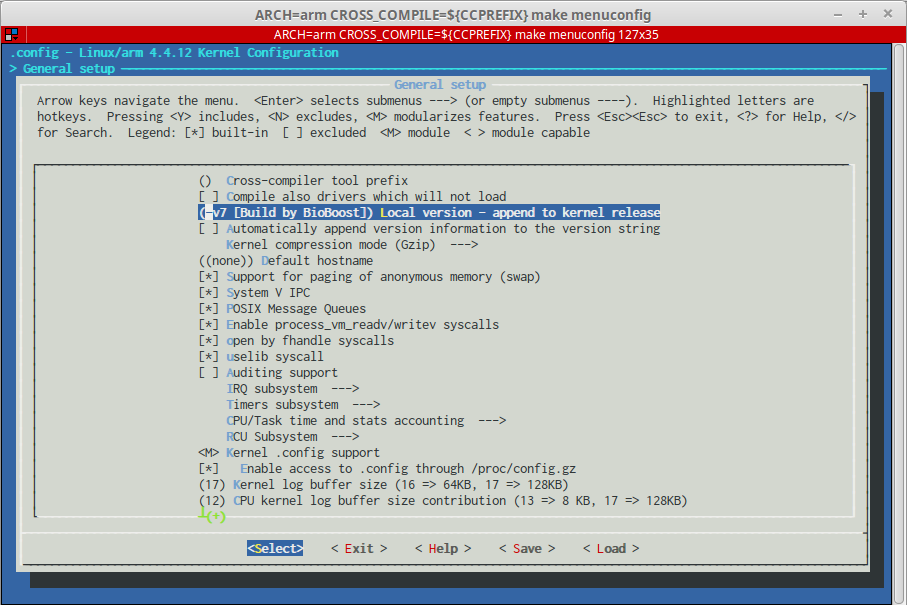
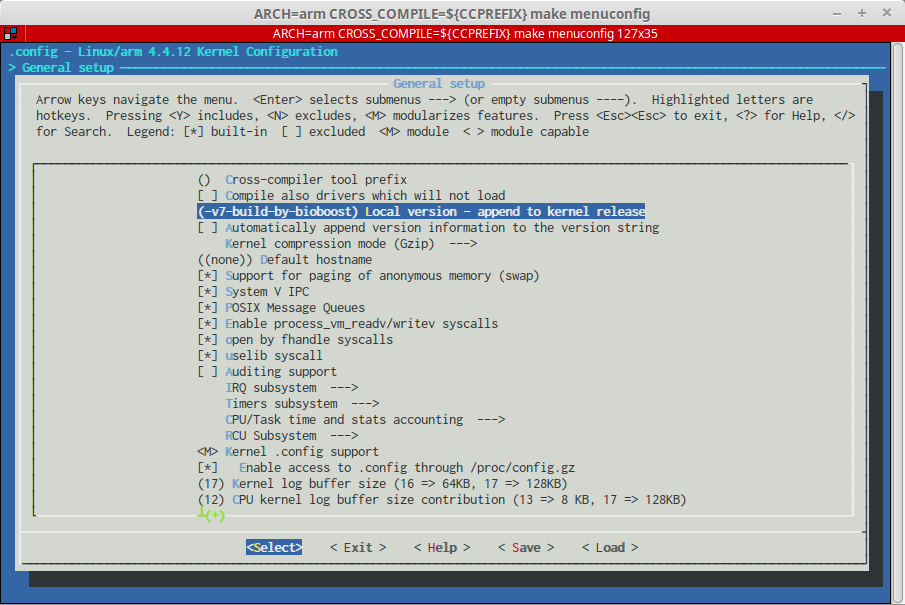
Deploy new kernel

Changed region(s): [[0.0, 0.0, 1.0, 1.0]]

diff --git a/docs/compile_rpi_kernel.md b/docs/compile_rpi_kernel.md
@@ -177,36 +177,62 @@ ARCH=arm CROSS_COMPILE=${CCPREFIX} make menuconfig
 
 Let's try to change something arbitrary like the 'local version string' which shows when using the `uname` command. Traverse to `General setup => Local version - append to kernel release` and change it to a custom string. An example is shown in the figure below. Make sure to save and exit before proceeding.
 
+!!! warning "Local Version String"
+	Do not use special characters or spaces for the local version string of the linux kernel as it will be integrated in the modules path build later in this course. A good example is 'v7-build-by-mark'; a bad one is 'v7 [build by m@rk]'
+
 ![Changing the Local Version of the Kernel](img/kernel_config_localversion.png)
 :   Changing the Local Version of the Kernel
 
 ### Building the kernel and modules
 
-To build the kernel, the modules and device trees (more on this later) the following make command can be used:
+To build the kernel, the modules and device trees (more on this later) the following commands can be used:
 
 ```shell
 ARCH=arm CROSS_COMPILE=${CCPREFIX} make zImage modules dtbs
+ARCH=arm CROSS_COMPILE=${CCPREFIX} make INSTALL_MOD_PATH=/tmp/modules modules_install
+scripts/mkknlimg arch/arm/boot/zImage /tmp/kernel7.img
 ```
 
 !!! note "Threads"
 	`-j#` sets the number of threads that should be used to build the kernel. It should be set to 1.5* the number of cores in your CPU. So if you have 4 cores, you should set it to 6. On a VM you can omit the argument unless you used more than 1 core.
 
+Next we need to make a package containing all the build modules. If a dedicated machine were to be used this step would be simpler as we could deploy the modules directly to the SD card. However with Virtual Box it is not possible to directly access an SD card.
 
+```shell
+cd /tmp/modules
+tar czf modules.tgz *
+scp /tmp/modules/modules.tgz pi@<ip-address>:/tmp
+```
 
+Next we need the kernel image and the device tree blobs to be copied to the Raspberry Pi:
 
+```shell
+mkdir -p /tmp/boot/overlays
 
+mv /tmp/kernel7.img /tmp/boot/kernel7.img
 
+cp /home/$(whoami)/rpi-linux/arch/arm/boot/dts/*.dtb /tmp/boot/
+cp /home/$(whoami)/rpi-linux/arch/arm/boot/dts/overlays/*.dtb* /tmp/boot/overlays
+cp /home/$(whoami)/rpi-linux/arch/arm/boot/dts/overlays/README /tmp/boot/overlays
 
-TODO:
-Next, install the modules:
+scp -r /tmp/boot pi@<ip-address>:/tmp
+```
 
-sudo make ARCH=arm CROSS_COMPILE=arm-linux-gnueabihf- INSTALL_MOD_PATH=mnt/ext4 modules_install
+Now login to the Pi do deploy the new kernel:
 
-Finally, copy the kernel and Device Tree blobs onto the SD card, making sure to back up your old kernel:
-sudo cp mnt/fat32/$KERNEL.img mnt/fat32/$KERNEL-backup.img
-sudo scripts/mkknlimg arch/arm/boot/zImage mnt/fat32/$KERNEL.img
-sudo cp arch/arm/boot/dts/*.dtb mnt/fat32/
-sudo cp arch/arm/boot/dts/overlays/*.dtb* mnt/fat32/overlays/
-sudo cp arch/arm/boot/dts/overlays/README mnt/fat32/overlays/
-sudo umount mnt/fat32
-sudo umount mnt/ext4
+```shell
+ssh pi@<ip-address>
+sudo cp /boot/kernel7.img /boot/kernel7.img.old
+cd / && sudo tar xzf /tmp/modules.tgz
+sudo cp -r /tmp/boot/* /boot
+```
+
+This should be it. Restart the Raspberry Pi and keep you fingers crossed it shows back up.
+
+If all went well the new kernel should be operational. Check using `uname`:
+
+```shell
+ssh pi@<ip-address>
+uname -a
+Linux rasp-embedded 4.4.12-v7-build-by-bioboost+ #2 SMP Tue Jun 7 14:32:57 CEST 2016 armv7l GNU/Linux
+```
